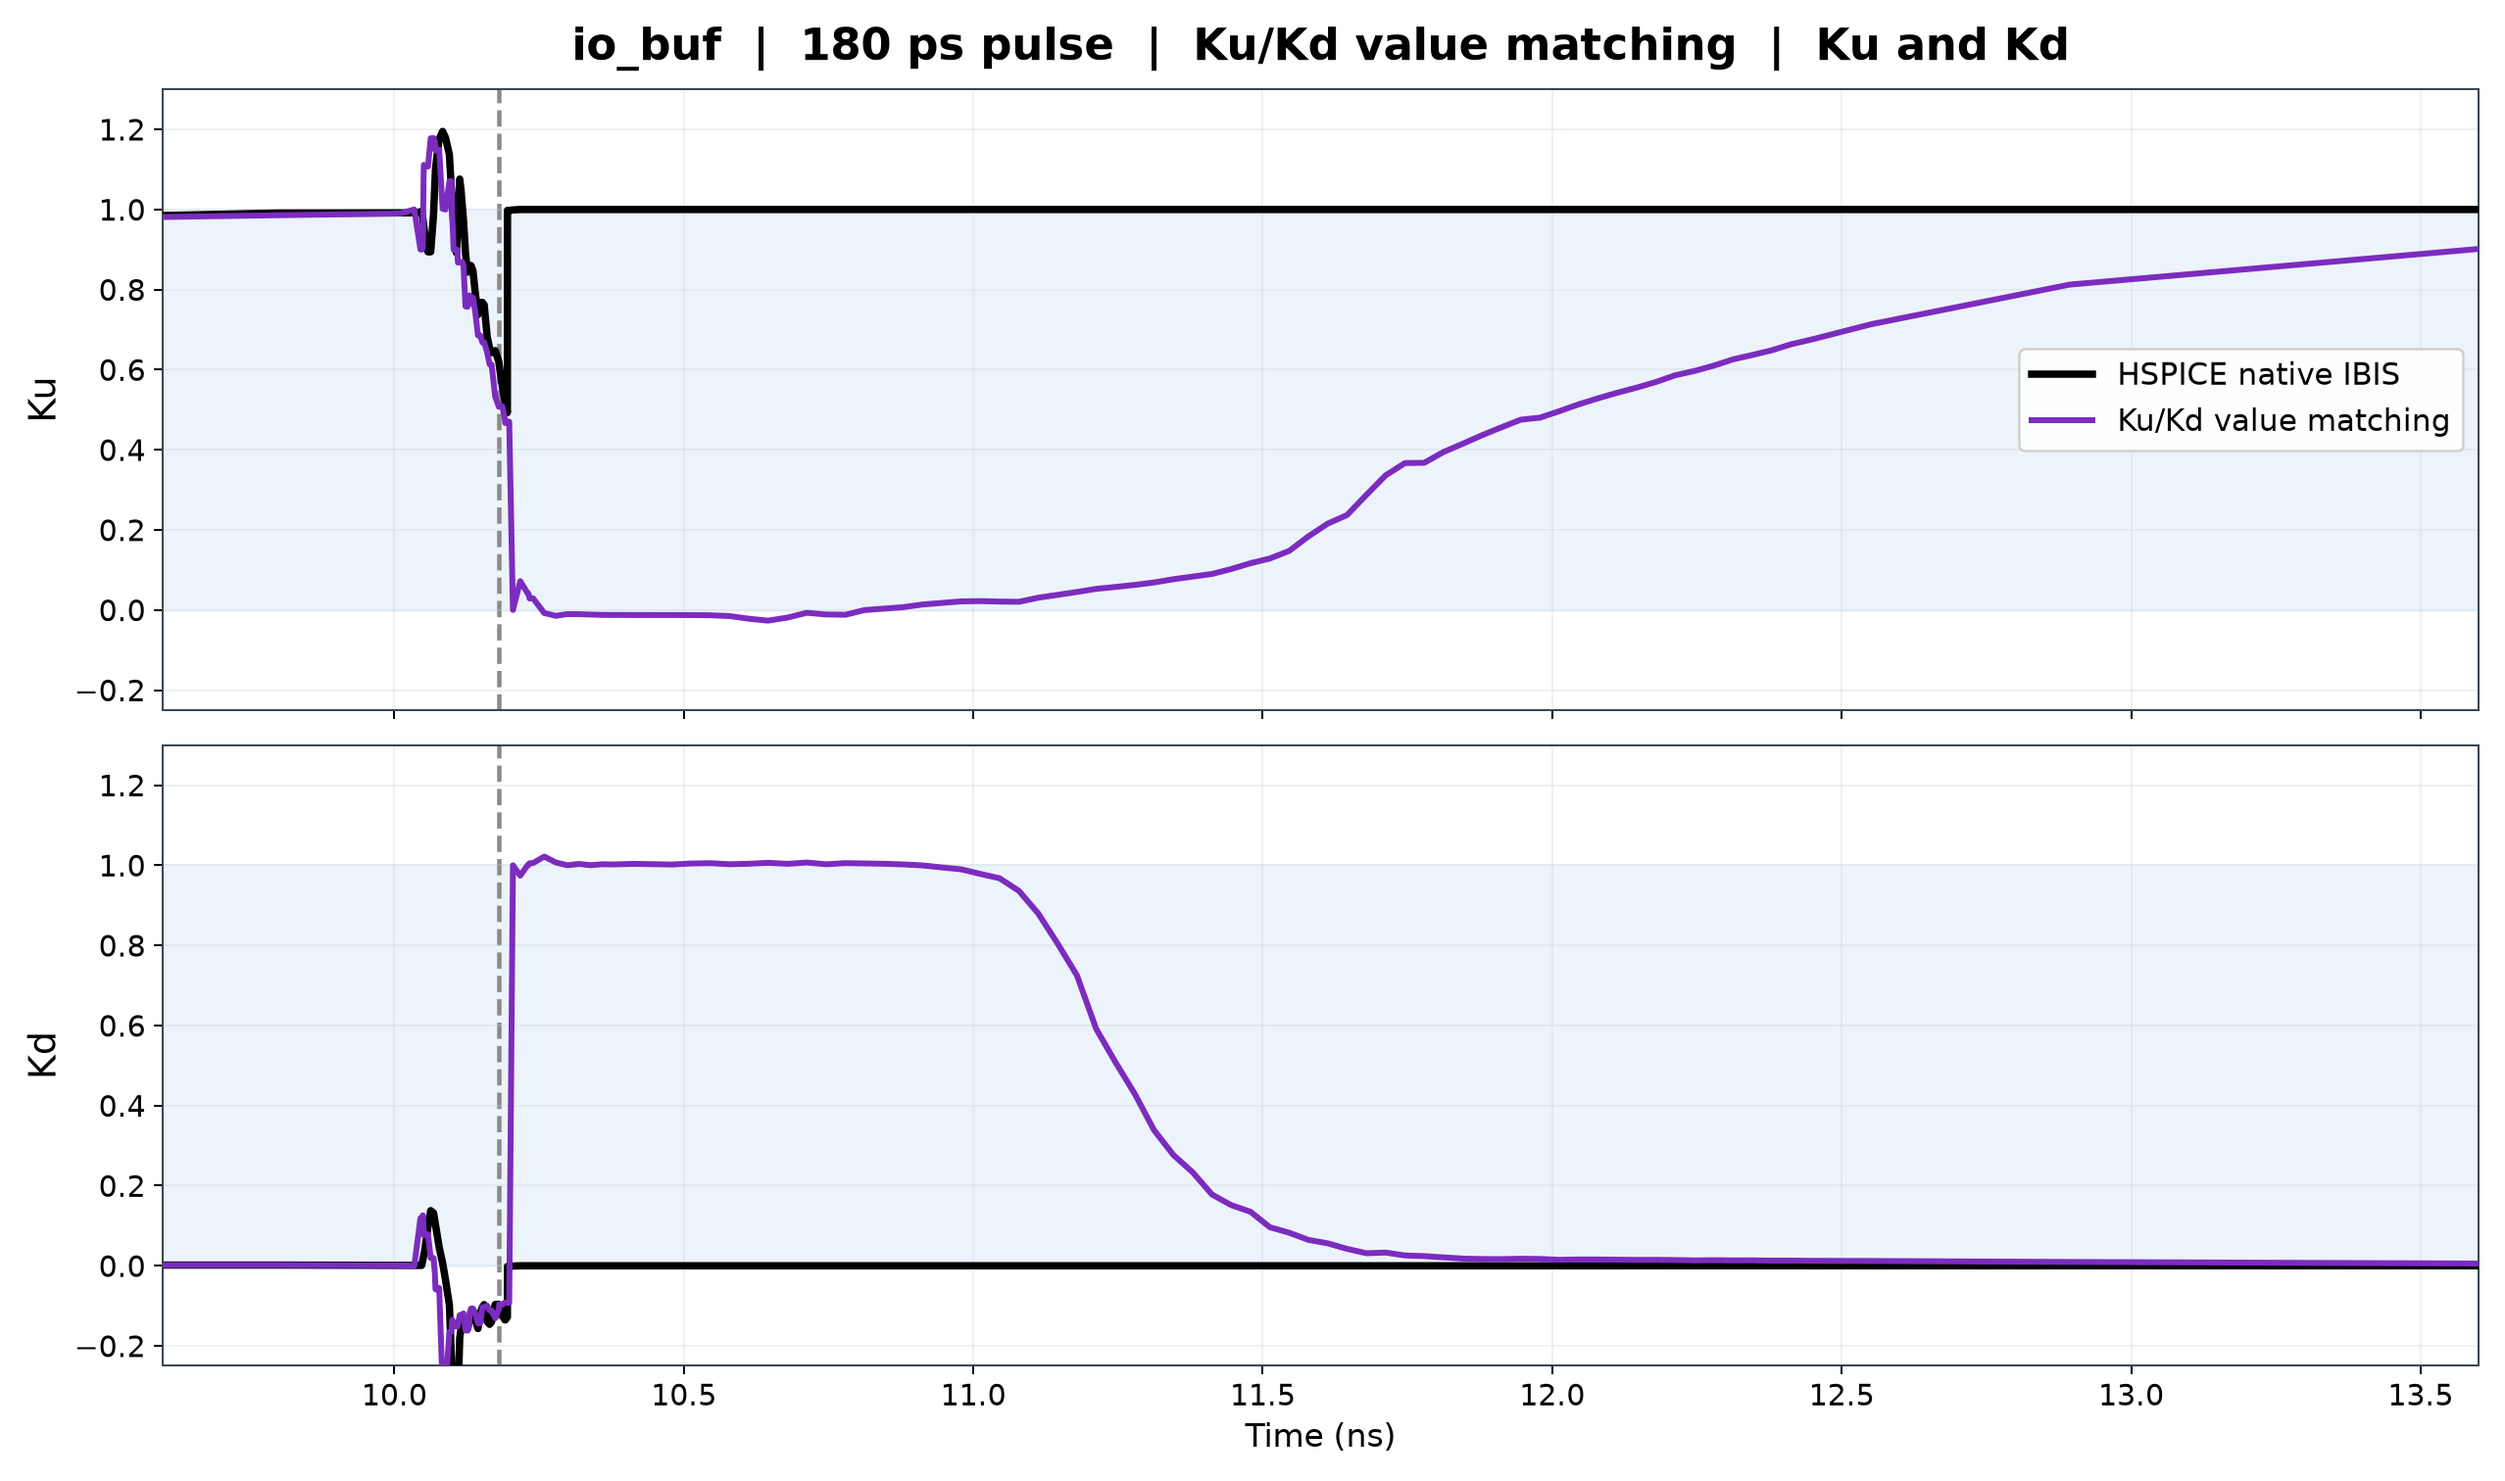
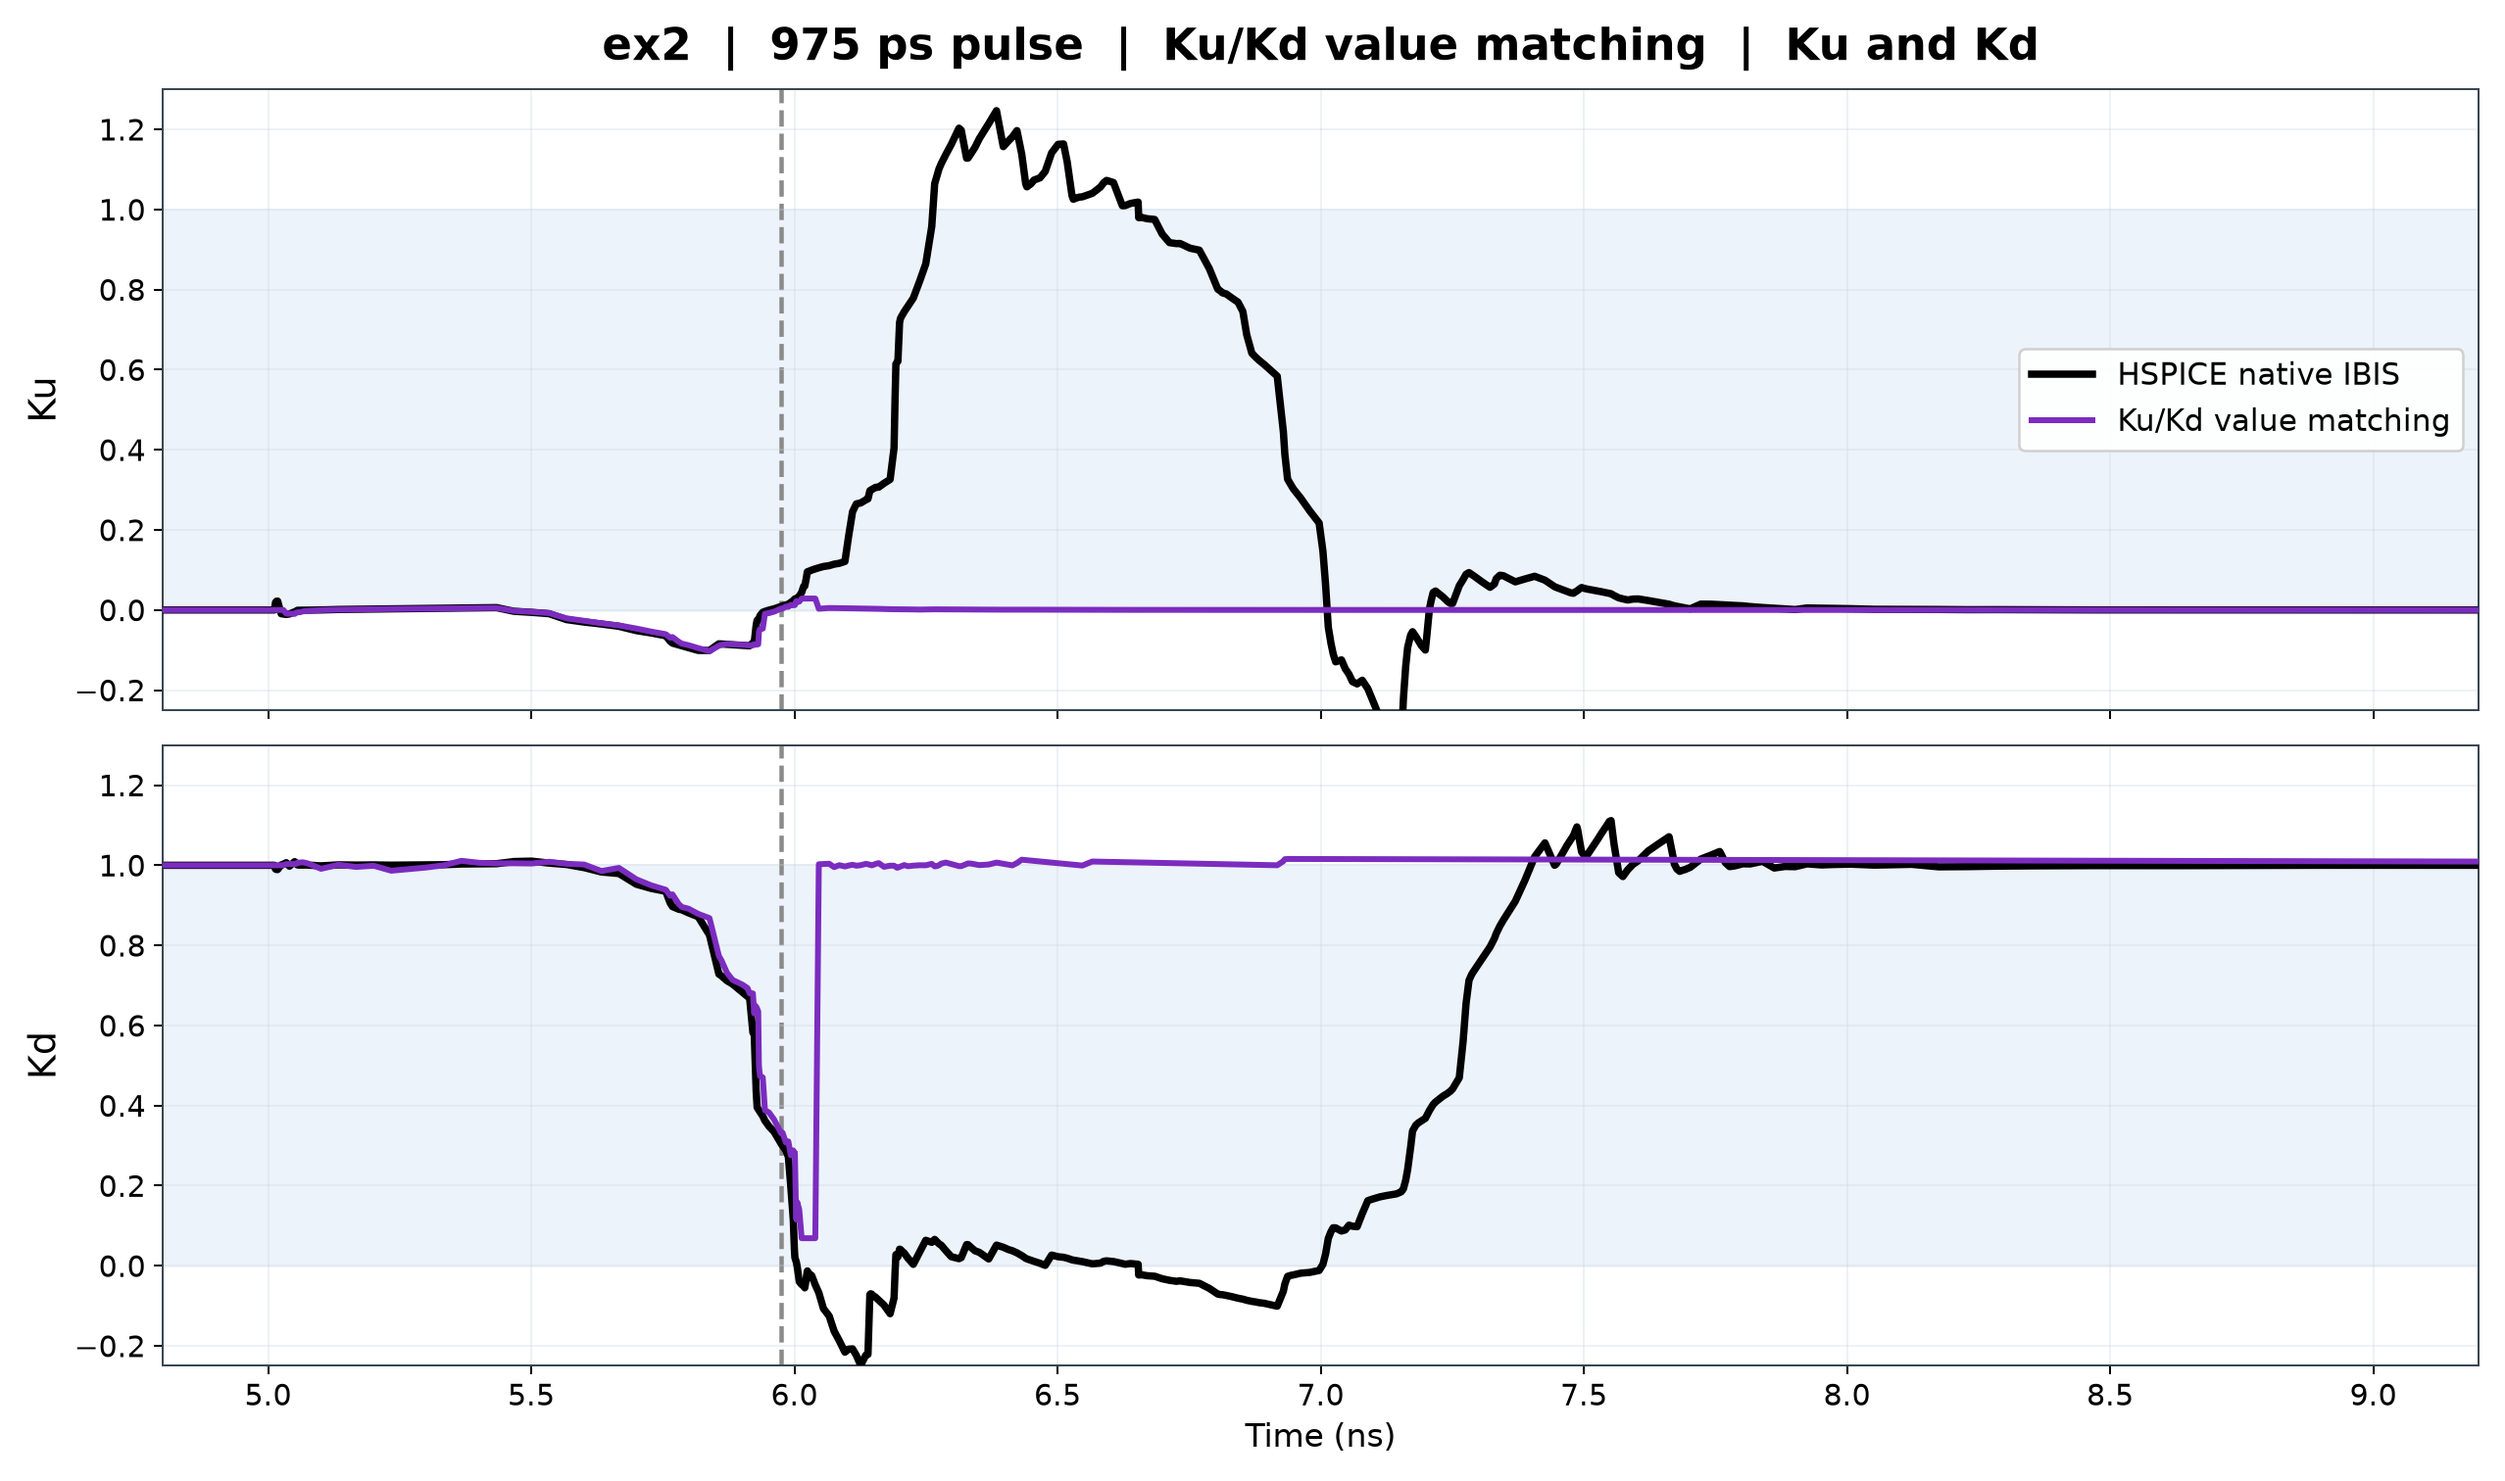
Short-high only: worst case moves to ex2, and the ranking flips
Restricted to short-high the two rules reverse: value matching 81.1 mV,
t-matching 111.3 mV, native IBIS 58.9 mV over the 13 cases both solve.
Across both directions it was t-matching 128.1 and value matching 144.1.
Short-low is where value matching does its damage, so excluding it helps
that rule and hurts the comparison that included it.

The bad case has to change buffer. io_buf has no hard short-high case --
its worst is 71 mV -- while ex2 at 975 ps is the hardest for both rules
at 205 and 206 mV. There both models produce essentially no pulse at all,
0.025 V and 0.002 V, where the transistor and native IBIS both reach
1.4 V. The titles name the device.

diff --git a/scripts/build_reversal_method_figures.py b/scripts/build_reversal_method_figures.py
@@ -64,14 +64,14 @@ METHODS = [
      "the same rule with the replay path forced on from t=0"),
 ]
 
-# A method is only as good as the case it is shown on. io_buf short_high at
-# 1634 ps is coeff_match's *best* of the thirty (33 mV); its worst is io_buf
-# short_low at 180 ps (283 mV), where it drives the pad to the opposite rail
-# while the transistor only dips halfway. Both are built, and the filenames say
-# which is which.
+# A method is only as good as the case it is shown on. Restricted to short-high,
+# io_buf at 1634 ps is the easiest case for both rules (33 and 41 mV) and ex2 at
+# 975 ps is the hardest for both (205 and 206 mV). io_buf has no hard short-high
+# case -- its worst is 71 mV -- so the bad case has to change buffer, which the
+# titles say. Both are built and the filenames say which is which.
 CASES = {
     "best": ("io_buf", "short_high", 1634.0, (4.6, 8.6)),
-    "worst": ("io_buf", "short_low", 180.4, (9.6, 13.6)),
+    "worst": ("ex2", "short_high", 974.7, (4.8, 9.2)),
 }
 EDGE_NS = {"short_high": 5.0, "short_low": 10.0}
 DPI = 180
